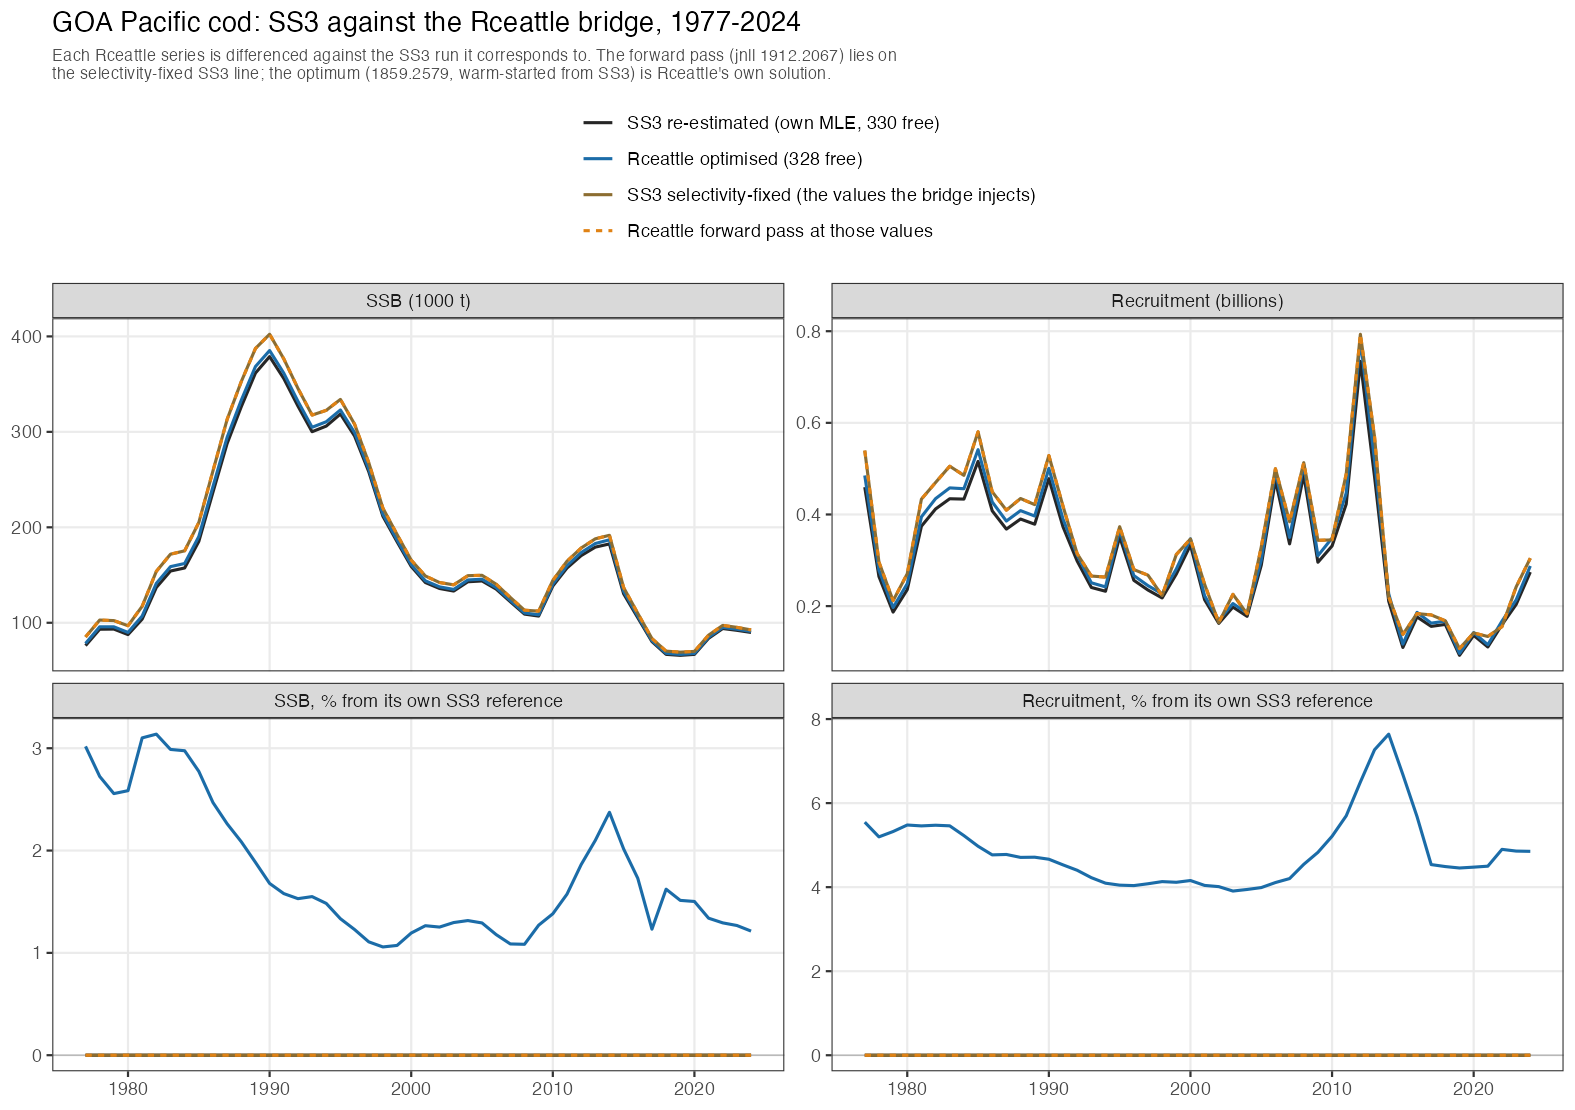
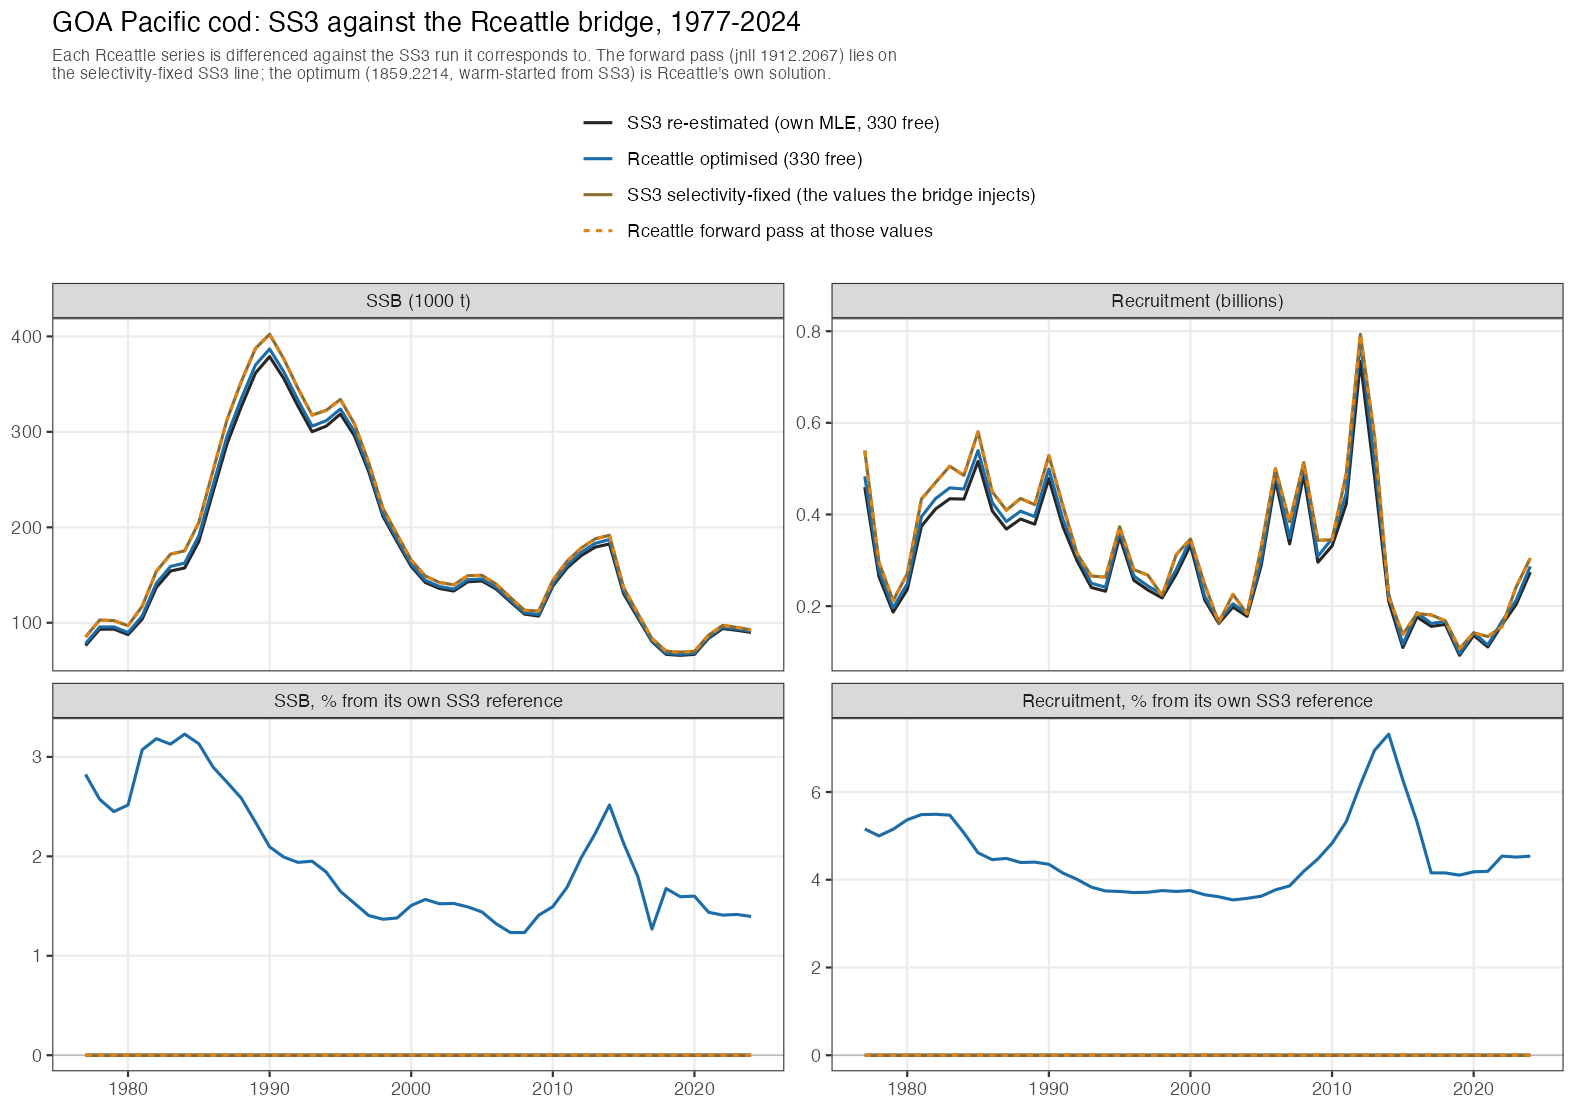
Build the SS3 map from injected values: 328 -> 330 free parameters
build_params() defaults both DoubleNormalSS3 ends to the -999 sentinel and
build_map() correctly fixes any end still sitting there. The bridge built its
map from mod0, a skeleton built with inits = NULL, so both ends were held for
every fleet before the real values were injected. That left end_logit for
FshPot (-0.0304) and LLSrv (-0.5575) held, though SS3 estimates both at phase
2, and it was the whole 328-against-330 parameter gap.

Building the map from the injected values instead frees exactly those two.
They land on SS3 with real curvature -- FshPot -0.0721853 against -0.072711,
LLSrv -0.6035051 against -0.605724, Hessian diagonals 119 and 53 -- and their
neighbours relax onto SS3 too. The forward pass is bit-identical at
1912.206653 under both maps, run rather than assumed.
build_map(mod0$data_list, inits) is identical() to a second full fit_mod()
build and 100x cheaper.

Both sides now estimate 330, matching category by category. Net of the two
penalties SS3 charges that Rceattle cannot express (its lognormal prior on the
heatwave M block, 0.8944, and Parm_softbounds, 0.0130), the optima agree to
-0.036 +/- 0.004, where the tolerance is SS3's 6-significant-figure report
rounding rather than model disagreement.

Total agreement got worse, not better: the 328-parameter fit sat at -0.0012
and Survey, Catch, Recruitment and SSB all degraded. That near-exact total was
offsetting errors from holding two parameters SS3 estimated, not parity.
[…]

diff --git a/SS3-bridge/GOA-estimation-parity.md b/SS3-bridge/GOA-estimation-parity.md
@@ -13,6 +13,55 @@ the provenance of its numbers. Read this section instead.
 > *below* SS3, not level with it. The two numbers and why neither is parity are
 > below. Three adversarial reviews found this; two found it independently.
 
+## 2026-10-15: matched at 330 free parameters, agreeing to 0.036 nats
+
+Run `compare_cod_models.R` from the `GOA cod` folder; it sets its own
+configuration. Both sides now estimate **330** parameters, matching category by
+category (F 134; recruitment deviations 48 + 10 `init_dev`; growth 5; M 2; q 3;
+stock-recruit 2; selectivity 126).
+
+| component, SS3 kernel units | Rceattle | SS3 | diff |
+|---|---|---|---|
+| Length_comp | 1361.0842 | 1361.1100 | −0.026 |
+| Age_comp (CAAL) | 728.0906 | 728.0110 | +0.080 |
+| Survey | −5.6343 | −5.4940 | −0.140 |
+| Recruitment | −16.9353 | −17.0211 | +0.086 |
+| Catch | 1.6252 | 1.6470 | −0.022 |
+| selectivity devs | 6.5298 | 6.5465 | −0.017 |
+| expressible priors | 0.0771 | 0.0756 | +0.001 |
+| **prior, M 2014-16 block** | **0.0000** | **0.8944** | **−0.894** |
+| **`Parm_softbounds`** | **0.0000** | **0.0130** | **−0.013** |
+
+Objectives: Rceattle 1859.221433 (max|grad| 9.4e-04), SS3 **2075.77885793** —
+read from `ss3.par`, not from summing `Report.sso`, whose 6-significant-figure
+components overstate the total by +0.0036. Net of the two penalties SS3 charges
+that Rceattle cannot express, **the optima agree to −0.036**, with an uncertainty
+of about ±0.004 that is SS3's report rounding rather than model disagreement.
+`Length_comp` prints as `1361.11`, so that row alone is known only to ±0.005.
+
+**What closed the last gap**, and the honest cost: the bridge derived its map
+from a skeleton model built with `inits = NULL`, where `build_params()` defaults
+both double-normal ends to the −999 sentinel, so `build_map()` held
+`Size_DblN_end_logit` for FshPot and LLSrv — two parameters SS3 estimates at
+phase 2. Building the map from the injected values instead frees them; they land
+within 5.3e-4 and 2.2e-3 of SS3's values with real curvature, and the forward
+pass is bit-identical. **But total agreement got worse, not better**: the
+previous 328-parameter fit sat at −0.0012, and four components (Survey, Catch,
+Recruitment, and SSB) degraded. That near-exact total was offsetting errors from
+holding two parameters SS3 estimated, not parity; −0.036 at a matched parameter
+count is the more honest number, and it is 1.7e-5 relative on a 2075-nat
+objective.
+
+**Still open.** Both fits report convergence `FAIL`: the Hessian is not
+positive-definite (5 negative eigenvalues, condition number 7.1e14) and six
+`beta_linkage` selectivity coefficients are genuinely rank-deficient. That
+predates this change and is unaffected by it. SS3's own `covar.sso` in this run
+carries no covariance rows, so there is no evidence its Hessian inverted either —
+do not frame this as Rceattle failing where SS3 succeeds. And nothing has
+simulated from Rceattle at SS3's parameters and refitted, so the two end
+parameters agreeing with SS3 is agreement with one point estimate, not
+demonstrated identifiability.
+
 ## Neither configuration compares the same parameter space
 
 The obstacle is structural, and naming it first makes the two fits legible.

diff --git a/GOA cod/Bridging/Estimation_Differences.md b/GOA cod/Bridging/Estimation_Differences.md
@@ -1747,3 +1747,42 @@ the freed variant only keeps a `(Intercept)` row pinned at 0.
 design column restricted to the years no later block covers, so the base keeps its own years. That
 is an Rceattle linkage-grammar question, not a bridge one. Until it is answered, report the forward
 pass and do not report an estimation comparison.
+
+## 25. The bridge derived its map from a skeleton model built on defaults 🔴 FIXED
+
+**A bridge defect, not a package one**, and the last of the parameter-count gap.
+
+`build_params()` defaults both DoubleNormalSS3 ends to the -999 sentinel, and `build_map()`
+correctly fixes any end still sitting there. The bridge built `mod0` with `inits = NULL` purely
+to get the parameter skeleton, then took its map -- so both ends were held for every fleet before
+the real values were injected, and `Size_DblN_end_logit` for FshPot (-0.0304) and LLSrv (-0.5575),
+which SS3 estimates at phase 2, stayed held. That was exactly the 328-against-330 gap.
+
+Fixed by building the map from the injected values, `build_map(mod0$data_list, inits)`, which is
+`identical()` to a second full `fit_mod()` build and 100x cheaper. The forward pass is
+bit-identical (1912.206653 under both maps, run rather than assumed), and the two parameters land
+on SS3 with real curvature:
+
+| | injected (held) | fitted (free) | SS3 MLE | Hessian diag |
+|---|---|---|---|---|
+| `end_logit` FshPot | -0.0303671 | -0.0721853 | -0.072711 | 118.99 |
+| `end_logit` LLSrv | -0.557538 | -0.6035051 | -0.605724 | 52.86 |
+
+Their neighbours relaxed onto SS3 too (FshPot `descend_se` 4.00894 -> 4.04832 against 4.04946).
+Realised terminal-bin selectivity moves ~0.01.
+
+**The honest cost.** Total agreement got WORSE: the 328-parameter fit sat at -0.0012 in SS3 kernel
+units, the 330-parameter fit at -0.036, and Survey, Catch, Recruitment and SSB all degraded. The
+near-exact total was offsetting errors from holding two parameters SS3 estimated, not parity.
+-0.036 at a matched count is the number to quote.
+
+The general form is a package trap, filed as `TRAPS.md` "A map built from a SKELETON model freezes
+both double-normal ends before the real values land" -- reproducible on `make_test_data()` with no
+SS3 involved, 8 free parameters against 10.
+
+**Two measurement traps found alongside, both worth remembering.** `ss3.par` carries the objective
+at full precision but only for a run SS3 actually estimated -- the selectivity-fixed directory's
+par file is a leftover reading 2051.98, the pattern-10 total, not its own 2128.82. And summing
+`Report.sso`'s components overstates the total by +0.0036, because each prints to 6 significant
+figures; `Length_comp` at `1361.11` alone carries +/-0.005. Quote the parity net as -0.036 +/- 0.004
+and say the +/- is SS3's rounding, not model disagreement.
